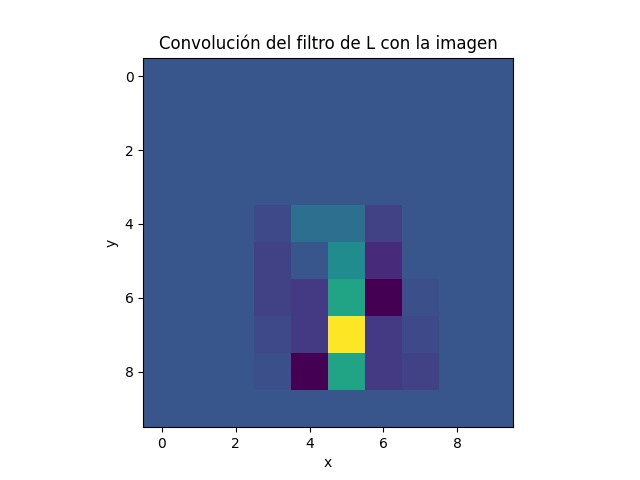
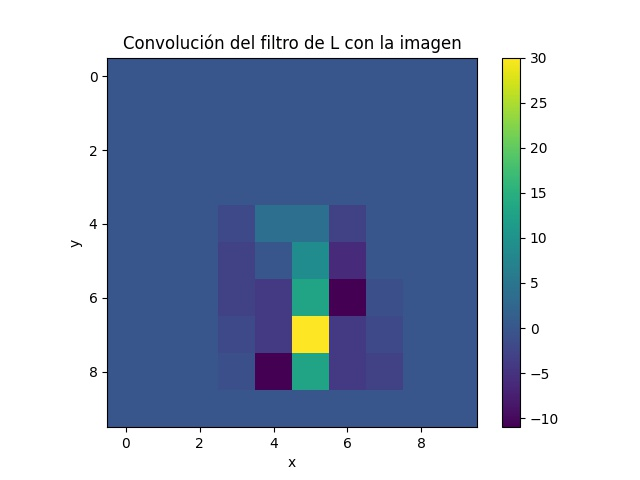
Final code

diff --git a/code/parte_a.py b/code/parte_a.py
@@ -21,18 +21,21 @@ conv = convolution(l, filtro, True)
 
 fig, ax = plt.subplots()
 ax.set(xlabel = 'x', ylabel = 'y', title = f'Imagen de L')
-ax.imshow(l)
+shw = ax.imshow(l)
+plt.colorbar(shw)
 plt.savefig(f'{fig_path}l.jpg')
 plt.show()
 
 fig, ax = plt.subplots()
 ax.set(xlabel = 'x', ylabel = 'y', title = f'Filtro de L')
-ax.imshow(filtro)
+shw = ax.imshow(filtro)
+plt.colorbar(shw)
 plt.savefig(f'{fig_path}filtro_l.jpg')
 plt.show()
 
 fig, ax = plt.subplots()
 ax.set(xlabel = 'x', ylabel = 'y', title = f'Convolución del filtro de L con la imagen')
-ax.imshow(conv)
+shw = ax.imshow(conv)
+plt.colorbar(shw)
 plt.savefig(f'{fig_path}conv_l.jpg')
 plt.show()
